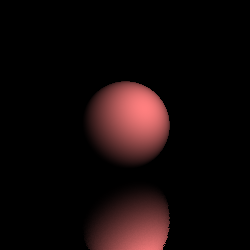
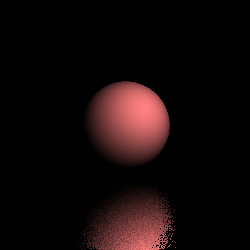
Add forth argument rng in method compute_light in Material trait change code create to feed in rng starting from render function in renderer.rs

Changed region(s): [[0.308, 0.784, 0.7, 1.0]]

diff --git a/src/rtracer/material.rs b/src/rtracer/material.rs
@@ -1,6 +1,6 @@
 use nalgebra::{Reflection, Unit, Vector3};
+use rand::{Rng, thread_rng};
 use rand::prelude::ThreadRng;
-use rand::thread_rng;
 use rand_distr::Distribution;
 use serde::{Deserialize, Serialize};
 
@@ -10,7 +10,13 @@ use crate::rtracer::{Color3, helper, HitInfo, light::Light, Scene, SceneObject};
 
 #[enum_dispatch]
 pub trait Material {
-    fn compute_light(&self, scene: &Scene, hit_info: &HitInfo, hit_object: &SceneObject) -> Color3;
+    fn compute_light(
+        &self,
+        scene: &Scene,
+        hit_info: &HitInfo,
+        hit_object: &SceneObject,
+        rng: &mut impl Rng)
+        -> Color3;
 }
 
 #[enum_dispatch(Material)]
@@ -32,11 +38,13 @@ impl Diffuse {
 }
 
 impl Material for Diffuse {
-    fn compute_light(&self, scene: &Scene, hit_info: &HitInfo, hit_object: &SceneObject) -> Color3 {
+    fn compute_light(&self, scene: &Scene, hit_info: &HitInfo,
+                     hit_object: &SceneObject, rng: &mut impl Rng)
+        -> Color3 {
         scene.iter_light()
             .map(|x| x.direct_light_at(hit_info.intersection, hit_info.normal, scene))
             .sum::<Color3>()
-            .component_mul(&self.color)
+            .component_mul(&self.color)  // factor in material's color
     }
 }
 
@@ -52,22 +60,25 @@ impl Reflective {
 }
 
 impl Material for Reflective {
-    fn compute_light(&self, scene: &Scene, hit_info: &HitInfo, hit_object: &SceneObject) -> Color3 {
+    fn compute_light(&self, scene: &Scene, hit_info: &HitInfo,
+                     hit_object: &SceneObject, rng: &mut impl Rng) -> Color3 {
+
         use crate::rtracer::renderer::raycast_compute_light;
         use rand_distr::UnitBall;
 
-        let mut rng = thread_rng(); // TODO: not fucking do this
-
+        let reflection_noise = self.fuzziness * Vector3::from(UnitBall.sample(rng));
         let reflect_dir =
-            helper::calculate_reflect_ray(&hit_info.incoming_dir, &hit_info.normal).into_inner()
-            + self.fuzziness * Vector3::from(UnitBall.sample(&mut rng));
-
-
-
+            Unit::new_normalize(
+                helper::calculate_reflect_ray(
+                    &hit_info.incoming_dir,
+                    &hit_info.normal).into_inner()
+                    + reflection_noise
+            );
         raycast_compute_light(
             scene,
             hit_info.intersection.clone(),
-            Unit::new_normalize(reflect_dir)  // TODO: maybe change to uncheck?
+            reflect_dir,
+            rng
         )
     }
 }

diff --git a/src/rtracer/renderer.rs b/src/rtracer/renderer.rs
@@ -7,6 +7,8 @@ use image::Rgb;
 use itertools::Itertools;
 use itertools::MinMaxResult::*;
 use nalgebra::{Point3, Unit, Vector3};
+use rand::prelude::{Rng, SmallRng};
+use rand::SeedableRng;
 
 use crate::rtracer::{material::Material, SceneObject};
 
@@ -24,7 +26,8 @@ type RenderBuffer = ImageBuffer<Rgb<f32>, Vec<f32>>;
 pub fn render(scene: &Scene, camera: &Camera, image_size: u32, unit_per_pixel: f32) -> RenderImage {
 	
 	let mut img: RenderBuffer = ImageBuffer::new(image_size, image_size);
-	
+	let mut rng = SmallRng::from_entropy();
+
 	let half_width = img.width()/2;
 	let half_height = img.height()/2;
 	
@@ -34,7 +37,7 @@ pub fn render(scene: &Scene, camera: &Camera, image_size: u32, unit_per_pixel: f
 			camera.ray_at_pixel_position(px, py, unit_per_pixel, half_width, half_height);
 		
 		// raycast!
-		let light = raycast_compute_light(scene, camera.pos, ray_dir);
+		let light = raycast_compute_light(scene, camera.pos, ray_dir, &mut rng);
 		*pixel = Rgb([light[0], light[1], light[2]]);
 	}
 	
@@ -44,11 +47,11 @@ pub fn render(scene: &Scene, camera: &Camera, image_size: u32, unit_per_pixel: f
 	// TODO: post process with dither and blur
 }
 
-pub fn raycast_compute_light(scene: &Scene, origin: Point3<f32>, dir: Unit<Vector3<f32>>)
+pub fn raycast_compute_light(scene: &Scene, origin: Point3<f32>, dir: Unit<Vector3<f32>>, rng: &mut impl Rng)
 	-> Color3 {
 	if let Some((hit, obj_ref)) = raycast_return_ref(scene, origin, dir) {
 		// TODO: make this dependent on material
-		obj_ref.material.compute_light(&scene, &hit, &obj_ref)
+		obj_ref.material.compute_light(&scene, &hit, &obj_ref, rng)
 	}
 	else {
 		scene.get_skylight()

diff --git a/src/main.rs b/src/main.rs
@@ -41,7 +41,7 @@ fn setup() -> SceneData {
 				pos: Point3::new(1.0, 1.0, -1.0),
 				norm: Unit::new_normalize(Vector3::new(0.0, 0.0, 1.0))
 			},
-			material::Reflective::new(0.01)
+			material::Reflective::new(0.1)
 		);/*
 	let disc = SceneObject::new(Disc::new(
 		Point3::new(1.0, 1.0, -1.0),

diff --git a/src/rtracer/scene.rs b/src/rtracer/scene.rs
@@ -1,3 +1,4 @@
+use std::cell::RefCell;
 use std::slice::Iter;
 use std::vec::Vec;
 
